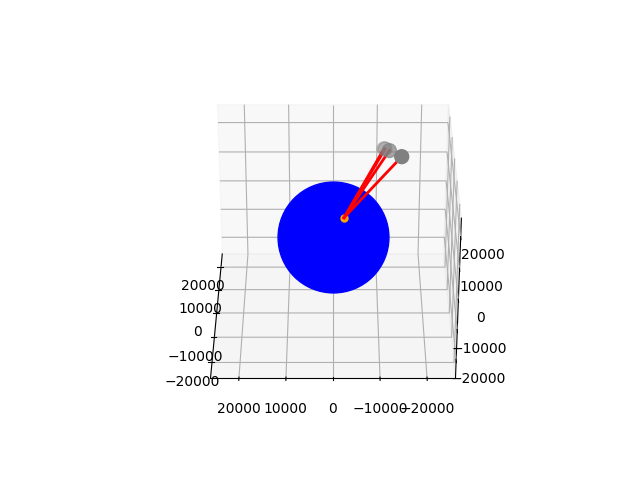
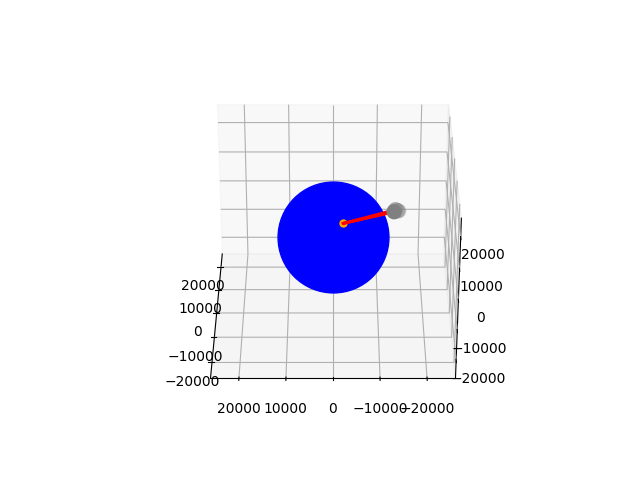
1% eftir

Changed region(s): [[0.5625, 0.2812, 0.6562, 0.4062], [0.5312, 0.4062, 0.6562, 0.4688]]

diff --git a/d6.py b/d6.py
@@ -7,19 +7,35 @@ from functools import partial
 
 
 if __name__ == '__main__':
-    receiver = (2, 1)
-    test = TestGps(receiver)
+    receivers =  [(0,0), (-2,1), (2,1), (1.5, 0), (12,20)]
     
-    sat_gen_linspace: SateliteGenerator = partial(test.get_linspace_satelites, phi_diff=math.pi/4, theta_diff=0.75*math.pi/2, n=8)
-    sat_gen_random: SateliteGenerator = partial(test.get_random_satelites, phi_diff=math.pi/4, theta_diff=0.75*math.pi/2, n=8)  
-    df_lin = run_tests(test, sat_gen_linspace, n_in=50, n_out=5)
-    df_rand = run_tests(test, sat_gen_random, n_in=50, n_out=5)
+
+    df_lin = run_tests(receivers, phi_diff=math.pi/4, theta_diff=math.pi/4, iters=20, n_sat=8, random=False)
+    df_rand = run_tests(receivers, phi_diff=math.pi/4, theta_diff=math.pi/4, iters=20, n_sat=8, random=True)
     print(df_lin)
     print(df_rand)
 
-    # ds = DynamicSystem(sat_gen())
-    # pos = ds.solve_GN(test.get_initial_guess())
-    # print(pos)
-    # print(test.get_receiver_pos())
-    # print("error: ", math.sqrt(sum([(x-y)**2 for x,y in zip(pos[:-1], test.get_receiver_pos())])))
-    # plot_satelites(ds, pos)
+    test = TestGps((2,1.00004))
+    guess = test.get_initial_guess()
+    ds = DynamicSystem(test.get_random_satelites(math.pi/80, math.pi/80, n=4))
+    pos = ds.solve_GN(guess)
+    print(pos)
+    print(test.get_receiver_pos())
+    print("error: ", math.sqrt(sum([(x-y)**2 for x,y in zip(pos[:-1], test.get_receiver_pos())])))
+    plot_satelites(ds, pos)
+    # receiver = (2, 1)
+    # test = TestGps(receiver)
+    
+    # sat_gen_linspace: SateliteGenerator = partial(test.get_linspace_satelites, phi_diff=math.pi/4, theta_diff=0.75*math.pi/2, n=8)
+    # sat_gen_random: SateliteGenerator = partial(test.get_random_satelites, phi_diff=math.pi/4, theta_diff=0.75*math.pi/2, n=8)  
+    # df_lin = run_tests(test, sat_gen_linspace, n_in=50, n_out=5)
+    # df_rand = run_tests(test, sat_gen_random, n_in=50, n_out=5)
+    # print(df_lin)
+    # print(df_rand)
+
+    # # ds = DynamicSystem(sat_gen())
+    # # pos = ds.solve_GN(test.get_initial_guess())
+    # # print(pos)
+    # # print(test.get_receiver_pos())
+    # # print("error: ", math.sqrt(sum([(x-y)**2 for x,y in zip(pos[:-1], test.get_receiver_pos())])))
+    # # plot_satelites(ds, pos)

diff --git a/d5.py b/d5.py
@@ -3,26 +3,41 @@ import math
 from Satelite import DynamicSystem, SateliteConnection
 from gps_plot import plot_satelites
 from test_fixture import TestGps, run_tests, SateliteGenerator
-from functools import partial
 
 
 
 
 if __name__ == '__main__':
-    receiver = (2, 2)
-    test = TestGps(receiver)
+    receivers =  [(0,0), (1.5, 1.5)]
     
-    sat_gen_linspace: SateliteGenerator = partial(test.get_linspace_satelites, phi_diff=math.pi/80, theta_diff=math.pi/20, n=4)
-    sat_gen_random: SateliteGenerator = partial(test.get_random_satelites, phi_diff=math.pi/80, theta_diff=math.pi/20, n=4)  
-    df_lin = run_tests(test, sat_gen_linspace, n_in=50, n_out=5)
-    df_rand = run_tests(test, sat_gen_random, n_in=50, n_out=5)
-    print(df_lin)
-    print(df_rand)
 
-    ds = DynamicSystem(sat_gen_random())
-    print(ds.satelites[0].t)
-    pos = ds.solve_GN(test.get_initial_guess())
+    df_lin = run_tests(receivers, phi_diff=math.pi/80, theta_diff=math.pi/20, iters=20, n_sat=4, random=False)
+
+    print(df_lin)
+
+    test = TestGps((2,1.00004))
+    guess = test.get_initial_guess()
+    ds = DynamicSystem(test.get_random_satelites(math.pi/80, math.pi/80, n=4))
+    pos = ds.solve_GN(guess)
     print(pos)
     print(test.get_receiver_pos())
     print("error: ", math.sqrt(sum([(x-y)**2 for x,y in zip(pos[:-1], test.get_receiver_pos())])))
     plot_satelites(ds, pos)
+
+    # receiver = (2, 2)
+    # test = TestGps(receiver)
+    
+    # sat_gen_linspace: SateliteGenerator = partial(test.get_linspace_satelites, phi_diff=math.pi/80, theta_diff=math.pi/20, n=4)
+    # sat_gen_random: SateliteGenerator = partial(test.get_random_satelites, phi_diff=math.pi/80, theta_diff=math.pi/20, n=4)  
+    # df_lin = run_tests(test, sat_gen_linspace, n_in=50, n_out=5)
+    # df_rand = run_tests(test, sat_gen_random, n_in=50, n_out=5)
+    # print(df_lin)
+    # print(df_rand)
+
+    # ds = DynamicSystem(sat_gen_random())
+    # print(ds.satelites[0].t)
+    # pos = ds.solve_GN(test.get_initial_guess())
+    # print(pos)
+    # print(test.get_receiver_pos())
+    # print("error: ", math.sqrt(sum([(x-y)**2 for x,y in zip(pos[:-1], test.get_receiver_pos())])))
+    # plot_satelites(ds, pos)

diff --git a/test_fixture.py b/test_fixture.py
@@ -52,21 +52,25 @@ class TestGps:
 
 SateliteGenerator = Callable[[], list[SateliteConnection]]
 
-def run_tests(test_fixt: TestGps, sat_gen: SateliteGenerator, n_in: int = 50, n_out: int = 10, t_err_min: float = 10**(-12), t_err_max: float = 10**(-8)) -> pd.DataFrame:
-    df = pd.DataFrame(index=list(range(n_out)), columns=["min_pos_error", "avg_pos_error", "max_pos_error", "condition_number"])
-    guess = test_fixt.get_initial_guess()
-    for i in range(n_out):
-        
-        ds = DynamicSystem(sat_gen())
-        pe_hist = np.zeros(n_in)
-        emf_hist = np.zeros(n_in)
+def run_tests(angles: list[tuple[float]], phi_diff, theta_diff, n_sat, iters: int = 50, t_err_min: float = 10**(-12), t_err_max: float = 10**(-8), random=False) -> pd.DataFrame:
+    df = pd.DataFrame(index=angles, columns=["min_pos_error", "avg_pos_error", "max_pos_error", "condition_number"])
+    
+    for x in angles:
+        test = TestGps(x)
+        guess = test.get_initial_guess()
+        if random:
+            ds = DynamicSystem(test.get_random_satelites(phi_diff, theta_diff, n=n_sat))
+        else:
+            ds = DynamicSystem(test.get_linspace_satelites(phi_diff, theta_diff, n=n_sat))
 
-        for j in range(n_in):
+        pe_hist = np.zeros(iters)
+        emf_hist = np.zeros(iters)
+        for j in range(iters):
             pe_hist[j], emf_hist[j] = ds.compute_EMF(guess, t_err_min, t_err_max)
         
-        df.at[i, "min_pos_error"] = np.amin(pe_hist)*1000
-        df.at[i, "avg_pos_error"] = np.average(pe_hist)*1000
-        df.at[i, "max_pos_error"] = np.amax(pe_hist)*1000
-        df.at[i, "condition_number"] = np.amax(emf_hist)
+        df.at[x, "min_pos_error"] = np.amin(pe_hist)*1000
+        df.at[x, "avg_pos_error"] = np.average(pe_hist)*1000
+        df.at[x, "max_pos_error"] = np.amax(pe_hist)*1000
+        df.at[x, "condition_number"] = np.amax(emf_hist)
 
     return df

diff --git a/d4.py b/d4.py
@@ -3,23 +3,24 @@ import math
 from Satelite import DynamicSystem, SateliteConnection
 from gps_plot import plot_satelites
 from test_fixture import TestGps, run_tests, SateliteGenerator
-from functools import partial
+
 
 
 if __name__ == '__main__':
-    receiver = (2, 1)
-    test = TestGps(receiver)
+    receivers =  [(0,0), (-2,1), (2,1), (1.5, 0), (12,20)]
     
-    sat_gen_linspace: SateliteGenerator = partial(test.get_linspace_satelites, phi_diff=math.pi/4, theta_diff=0.75*math.pi/2, n=4)
-    sat_gen_random: SateliteGenerator = partial(test.get_random_satelites, phi_diff=math.pi/4, theta_diff=0.75*math.pi/2, n=4)  
-    df_lin = run_tests(test, sat_gen_linspace, n_in=50, n_out=5)
-    df_rand = run_tests(test, sat_gen_random, n_in=50, n_out=5)
-    print(df_lin)
-    print(df_rand)
 
-    # ds = DynamicSystem(sat_gen())
-    # pos = ds.solve_GN(test.get_initial_guess())
-    # print(pos)
-    # print(test.get_receiver_pos())
-    # print("error: ", math.sqrt(sum([(x-y)**2 for x,y in zip(pos[:-1], test.get_receiver_pos())])))
-    # plot_satelites(ds, pos)
+    df_lin = run_tests(receivers, phi_diff=math.pi/4, theta_diff=math.pi/4, iters=20, n_sat=4, random=False)
+
+    print(df_lin)
+
+    test = TestGps((2,1.00004))
+    guess = test.get_initial_guess()
+    ds = DynamicSystem(test.get_random_satelites(math.pi/4, math.pi/3, n=4))
+    pos = ds.solve_GN(guess)
+    print(pos)
+    print(test.get_receiver_pos())
+    print("error: ", math.sqrt(sum([(x-y)**2 for x,y in zip(pos[:-1], test.get_receiver_pos())])))
+    plot_satelites(ds, pos)
+
+

diff --git a/Satelite.py b/Satelite.py
@@ -89,7 +89,7 @@ class DynamicSystem(SateliteSystem):
         old_pos_times = np.array([satelite.t for satelite in self.satelites])
         diff_pos_times = np.zeros_like(old_pos_times)
         for i,satelite in enumerate(self.satelites):
-            t_error = t_err_max*(-1)**randint(0,1) #different values for ti
+            t_error = uniform(t_err_min, t_err_max)*(-1)**randint(0,1) #different values for ti
             satelite.t += t_error # we reinitialize the class after using this function
             diff_pos_times[i] = np.abs(t_error)
 
